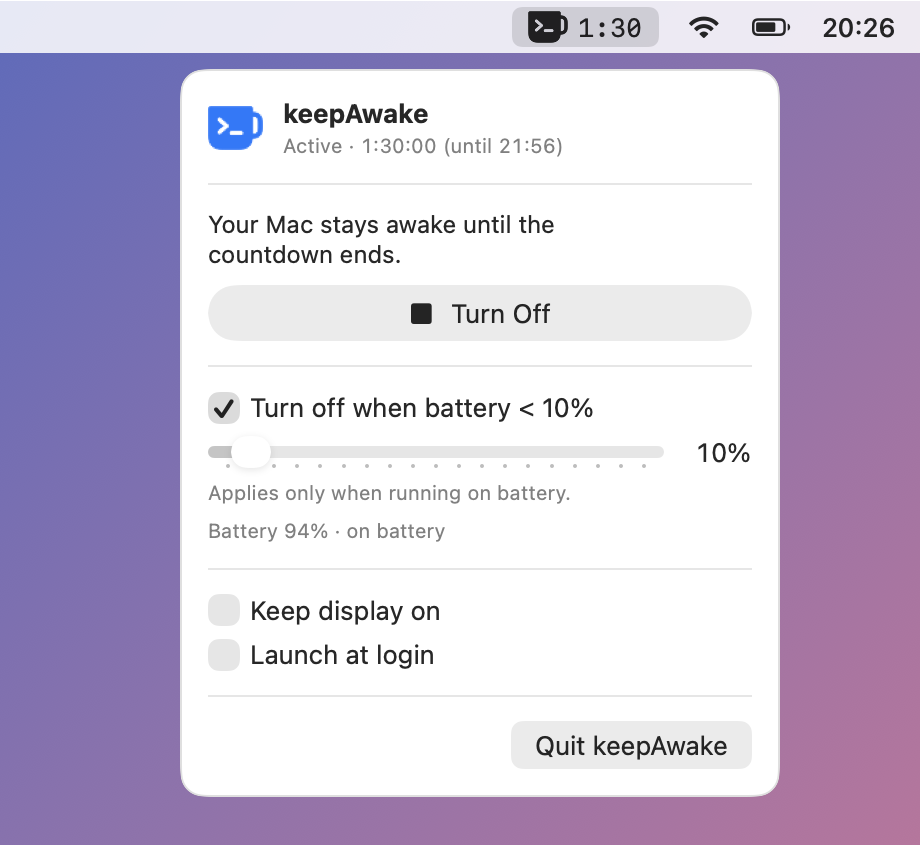
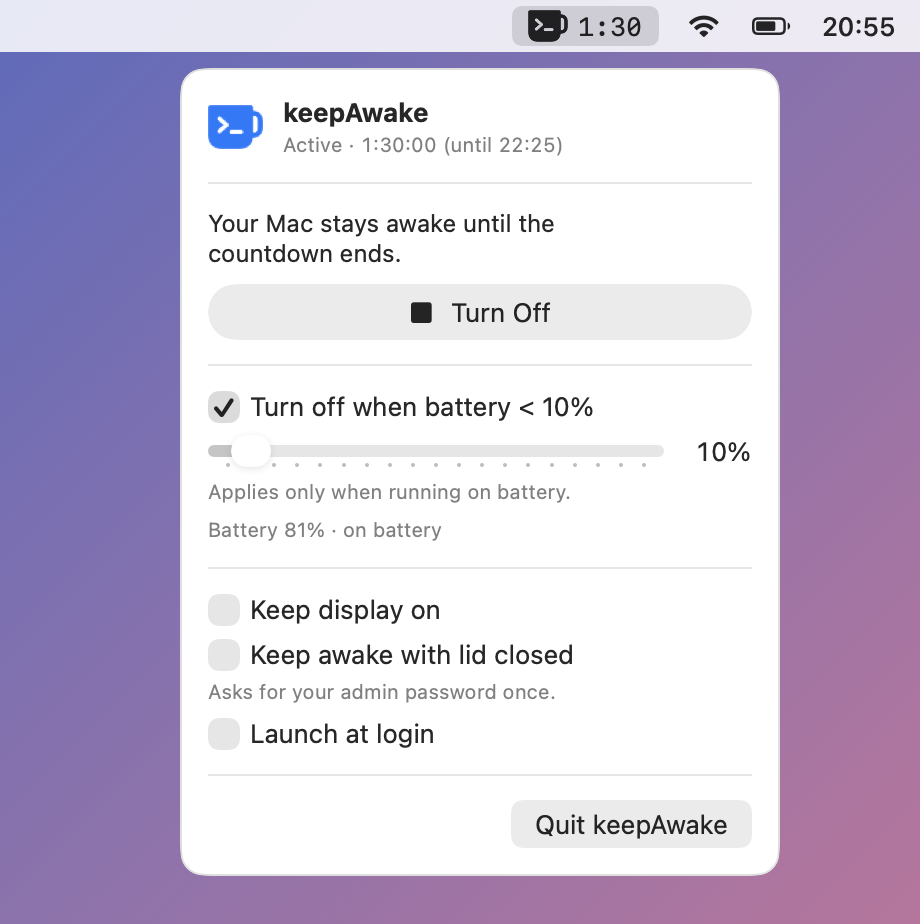
Add the lid-closed toggle to the menu

diff --git a/Sources/KeepAwake/MenuView.swift b/Sources/KeepAwake/MenuView.swift
@@ -150,10 +150,37 @@ struct MenuView: View {
     private var optionsSection: some View {
         VStack(alignment: .leading, spacing: 6) {
             Toggle("Keep display on", isOn: $controller.preventDisplaySleep)
+            if controller.lidModeAvailable {
+                lidSection
+            }
             Toggle("Launch at login", isOn: Binding(
                 get: { controller.launchAtLogin },
                 set: { controller.setLaunchAtLogin($0) }
             ))
+        }
+    }
+
+    private var lidSection: some View {
+        VStack(alignment: .leading, spacing: 4) {
+            Toggle("Keep awake with lid closed", isOn: Binding(
+                get: { controller.keepAwakeWithLidClosed },
+                set: { enabled in Task { await controller.setKeepAwakeWithLidClosed(enabled) } }
+            ))
+            Group {
+                if !controller.lidHelperInstalled {
+                    Text("Asks for your admin password once.")
+                } else if controller.keepAwakeWithLidClosed {
+                    Text("Don't put a running Mac in a bag — it can overheat.")
+                }
+            }
+            .font(.caption)
+            .foregroundStyle(.secondary)
+
+            if let message = controller.lidMessage {
+                Label(message, systemImage: "exclamationmark.triangle")
+                    .font(.caption)
+                    .foregroundStyle(.secondary)
+            }
         }
     }
 }

diff --git a/Sources/KeepAwake/Snapshot.swift b/Sources/KeepAwake/Snapshot.swift
@@ -16,7 +16,9 @@ enum Snapshot {
         for (name, appearance) in appearances {
             for active in [false, true] {
                 UserDefaults().removePersistentDomain(forName: suiteName)
-                let controller = KeepAwakeController(defaults: UserDefaults(suiteName: suiteName)!)
+                // Show the lid toggle as a fresh install sees it, whatever this Mac has installed.
+                let lid = LidSleepOverride(fileExists: { _ in false }, helperScriptPath: "snapshot", isSandboxed: false)
+                let controller = KeepAwakeController(defaults: UserDefaults(suiteName: suiteName)!, lid: lid)
                 if active { controller.start(minutes: 90) }
 
                 let state = active ? "active" : "inactive"
